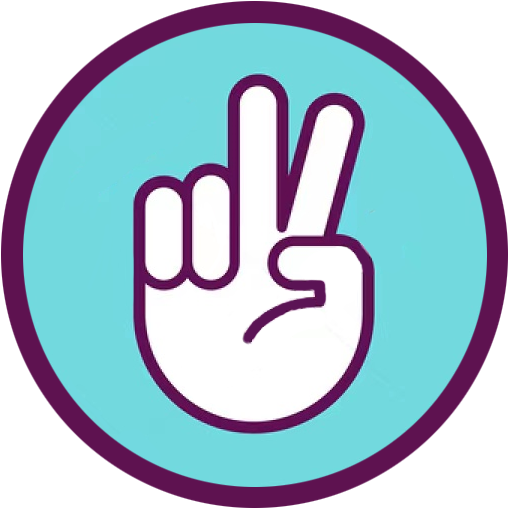
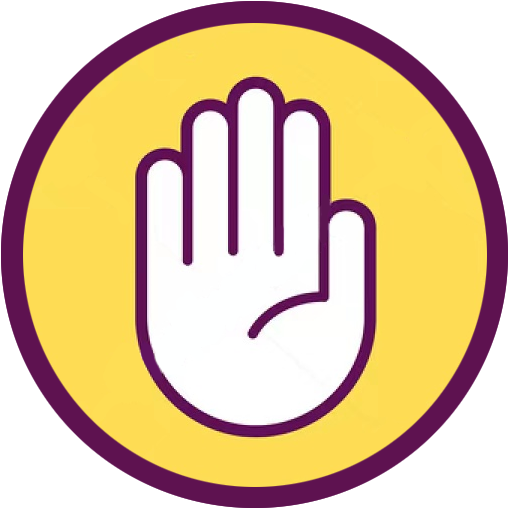
修正猜拳红包图标

diff --git a/src/renderer/main.js b/src/renderer/main.js
@@ -73,6 +73,7 @@ window.$VueApp = new Vue({
         title: '摸鱼派桌面客户端',
         liveness: 0,
         current: null,
+        onlines: [],
         defaultMenu: [{
             label: '复制',
             role: 'copy',
